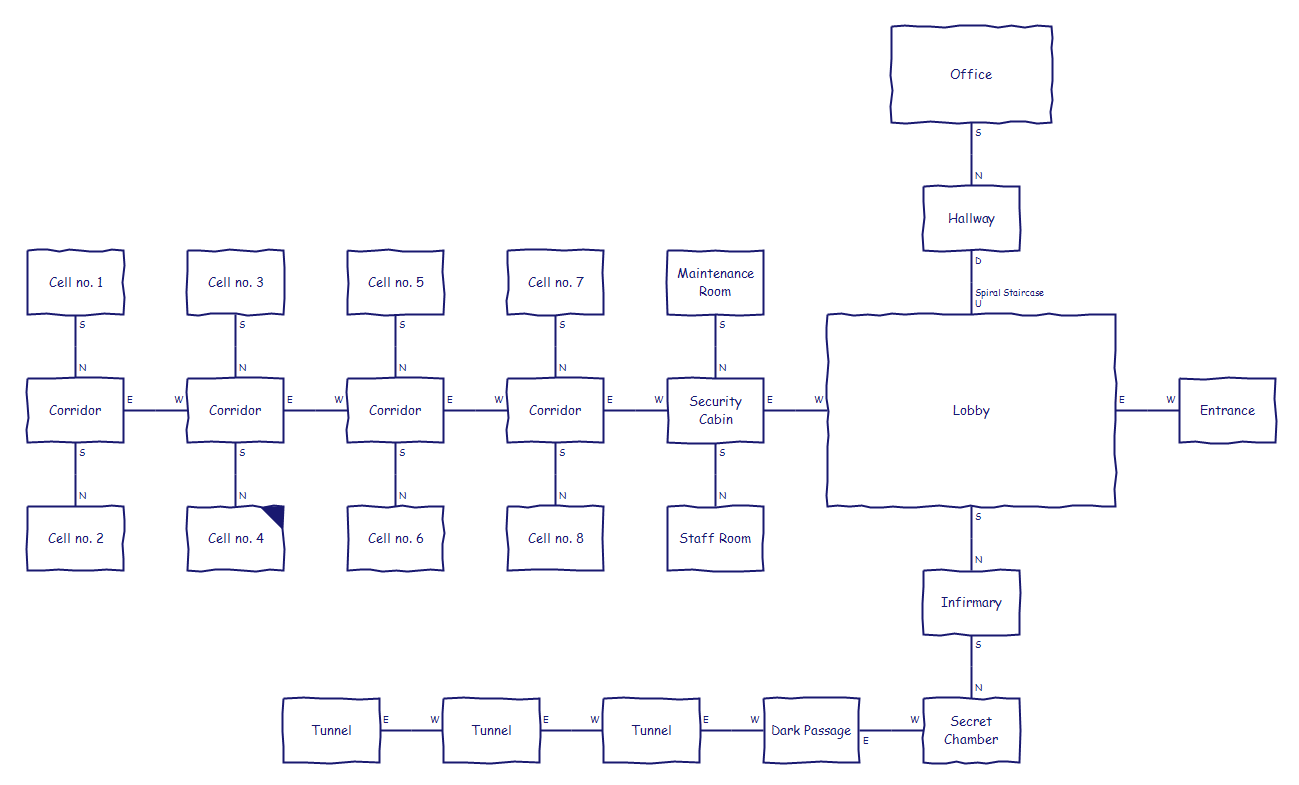
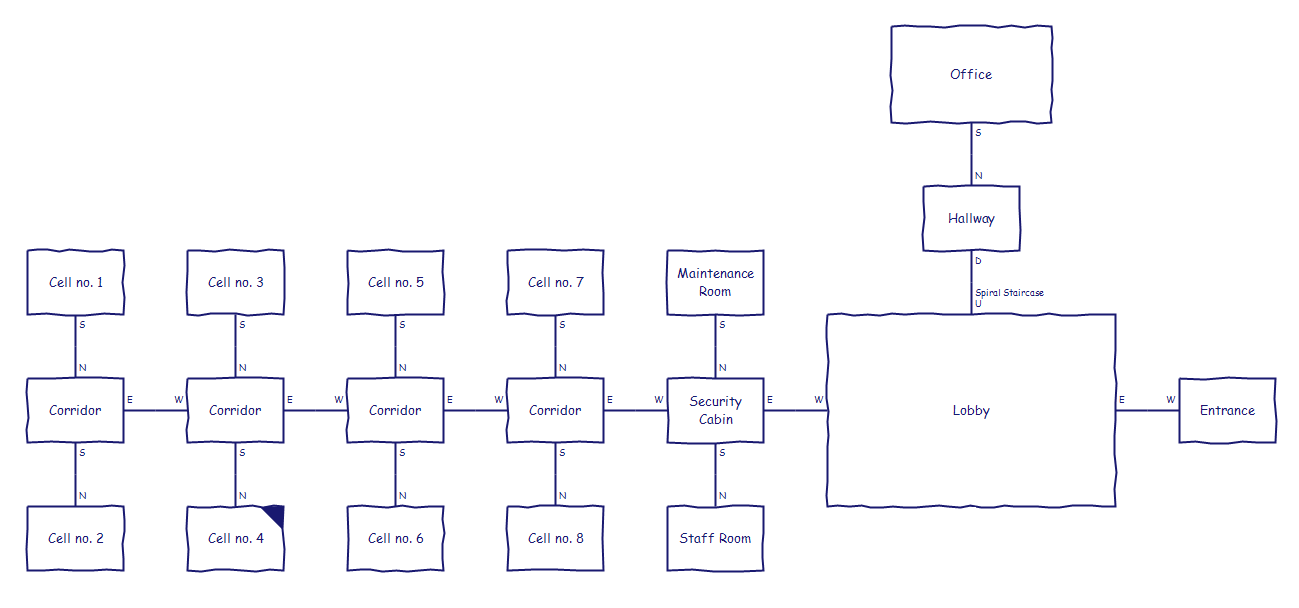
Changed map and coded ending

diff --git a/World.cpp b/World.cpp
@@ -17,14 +17,14 @@ using namespace std;
 World::World() 
 	: startTime(time(NULL)) {
 
-	Room* cellNo1 = new Room("Cell no. 1", "");
+	Room* cellNo1 = new Room("Cell no. 1", "The smell in this room is so strong that it kinda feels like a vapor sauna.\nQuickly you notice where it comes from.");
 	Room* cellNo2 = new Room("Cell no. 2", "There is another security bed in the center of this room.\nThe following phrase is written repeatedly all over the walls:\nThere is a small mailbox here. But as a matter of fact you can't see any mailbox in here.");
-	Room* cellNo3 = new Room("Cell no. 3", "TBD");
+	Room* cellNo3 = new Room("Cell no. 3", "There is an old mattress on the floor.\nIt looks particularly uncomfortable.");
 	Room* cellNo4 = new Room("Cell no. 4", "The appearance of the room where you woke up gives you the goosebumps.\nIt looks like you might be confined in a jailhouse or mental institution.\nWhy or how that happened is a mystery to you.\nThere is a security bed in the center of the room.\nIt seems as if its safety straps have been forced.\nDid you force them?");
-	Room* cellNo5 = new Room("Cell no. 5", "TBD");
-	Room* cellNo6 = new Room("Cell no. 6", "There are some mortal remains stacked up in a corner.\nSome of the bones don't look human.");
-	Room* cellNo7 = new Room("Cell no. 7", "TBD");
-	Room* cellNo8 = new Room("Cell no. 8", "TBD");
+	Room* cellNo5 = new Room("Cell no. 5", "There is some surgery equipment all made a mess...your guess is that\nsome doctor was performing an operation and had to run away, leaving\nall of this behind.");
+	Room* cellNo6 = new Room("Cell no. 6", "There are some mortal remains stacked up in a corner.\nSome of the bones don't look human...good vibes all around.");
+	Room* cellNo7 = new Room("Cell no. 7", "In the bed of this room, there is a notebook full of handwritten notes.\nYou read the last one:\n\"All the shouting that comes from the cell to the other side is driving\nme even crazier than what got me here. The staff here couldn't care\nless about us...\"\n...the rest of this paper sheet has been ripped off, so this is it.");
+	Room* cellNo8 = new Room("Cell no. 8", "The bed in this room is dirty and full of blood.\nYou don't want to imagine what happened here...but you want out!");
 
 	entities.push_back(cellNo1);
 	entities.push_back(cellNo2);
@@ -35,47 +35,31 @@ World::World()
 	entities.push_back(cellNo7);
 	entities.push_back(cellNo8);
 
-	Room* corridor1 = new Room("Corridor", "This end of the corridor has a small window to the outside.\nIt's made of tempered safety glass so you shouldn't dream about that\nescape route.");
-	Room* corridor2 = new Room("Corridor", "TBD");
-	Room* corridor3 = new Room("Corridor", "TBD");
-	Room* corridor4 = new Room("Corridor", "TBD");
+	Room* corridor1 = new Room("Corridor", "The West end of the corridor has a small window to the outside.\nIt's made of tempered safety glass so you shouldn't dream about that\nescape route.");
+	Room* corridor2 = new Room("Corridor", "You find yourself in a long and narrow corridor that communicates\nmany rooms.");
+	Room* corridor3 = new Room("Corridor", "In this part of the corridor you can see a big room in the distance.");
+	Room* corridor4 = new Room("Corridor", "This is the Eastern endpoint of the corridor.\nIt communicates the cluster of rooms with the rest of the facility.");
 
 	entities.push_back(corridor1);
 	entities.push_back(corridor2);
 	entities.push_back(corridor3);
 	entities.push_back(corridor4);
 
-	Room* maintenanceRoom = new Room("Maintenance Room", "TBD");
-	Room* staffRoom = new Room("Staff Room", "TBD");
-	Room* securityCabin = new Room("Security Cabin", "TBD");
+	Room* maintenanceRoom = new Room("Maintenance Room", "The Maintenance Room is full of all kinds of objects, such as pallets,\nbrooms, mops, pickers...");
+	Room* staffRoom = new Room("Staff Room", "This room doesn't seem very interesting, it's full of office stuff.");
+	Room* securityCabin = new Room("Security Cabin", "You can see two rows of monitors on the security booth.\nIt would be great to see what's going on in the other rooms, but all\nyou can see on screen is a random pattern of static...it seems that the\ncamera system has been sabotaged.");
 
 	entities.push_back(maintenanceRoom);
 	entities.push_back(staffRoom);
 	entities.push_back(securityCabin);
 
-	Room* lobby = new Room("Lobby", "TBD");
-	Room* hallway = new Room("Hallway", "TBD");
-	Room* office = new Room("Office", "TBD");
-	Room* entrance = new Room("Entrance", "TBD");
-	Room* infirmary = new Room("Infirmary", "TBD");
+	Room* lobby = new Room("Lobby", "The open space before you is overwhelming, specially in contrast with\nthe rest of the facilities. A song that you're not able to recognize is\nplaying on an old turntable.\nThe room has a certain flair, but it is clear that it has been severely\nneglected. It seems that this room has been used for leisure activities.");
+	Room* hallway = new Room("Hallway", "This small passage joins the office area on the upper floor with all the\nmain facilities on the ground floor.");
+	Room* office = new Room("Office", "There is a large mahogany desk in front of you with very metodically\norganized paperwork on top.\nOn the table, a computer with a game on screen that you quickly\nrecognize: Zork.\nYou have a flashback that blows your head off, indeed you were playing\nZork just before you passed out!\nOK now...this is quite something to digest...when you look inpect it\nclosely you see that the text on screen describes your surroundings,\nyou find out the way to put an end to all this madness. You smile while\nyou sit down to type your next command:");
 
 	entities.push_back(lobby);
 	entities.push_back(hallway);
 	entities.push_back(office);
-	entities.push_back(entrance);
-	entities.push_back(infirmary);
-
-	Room* secretChamber = new Room("Secret Chamber", "TBD");
-	Room* darkPassage = new Room("Dark Passage", "TBD");
-	Room* tunnel1 = new Room("Tunnel", "TBD");
-	Room* tunnel2 = new Room("Tunnel", "TBD");
-	Room* tunnel3 = new Room("Tunnel", "TBD");
-
-	entities.push_back(secretChamber);
-	entities.push_back(darkPassage);
-	entities.push_back(tunnel1);
-	entities.push_back(tunnel2);
-	entities.push_back(tunnel3);
 
 	Exit* cellNo1_Corridor = new Exit(Direction::S, cellNo1, corridor1, true);
 	Exit* cellNo2_Corridor = new Exit(Direction::N, cellNo2, corridor1, true);
@@ -114,26 +98,10 @@ World::World()
 	Exit* security_lobby = new Exit(Direction::E, securityCabin, lobby, true);
 	Exit* lobby_hallway = new Exit(Direction::U, lobby, hallway, false, false, "There is a Spiral staircase that goes ");
 	Exit* hallway_office = new Exit(Direction::N, hallway, office, true);
-	Exit* lobby_entrance = new Exit(Direction::E, lobby, entrance, true);
-	Exit* lobby_infirmary = new Exit(Direction::S, lobby, infirmary, true);
 
 	entities.push_back(security_lobby);
 	entities.push_back(lobby_hallway);
 	entities.push_back(hallway_office);
-	entities.push_back(lobby_entrance);
-	entities.push_back(lobby_infirmary);
-
-	Exit* infirmary_secret = new Exit(Direction::S, infirmary, secretChamber, true);
-	Exit* secret_passage = new Exit(Direction::W, secretChamber, darkPassage, true);
-	Exit* passage_tunnel1 = new Exit(Direction::W, darkPassage, tunnel1, true);
-	Exit* tunnel1_tunnel2 = new Exit(Direction::W, tunnel1, tunnel2, false);
-	Exit* tunnel2_tunnel3 = new Exit(Direction::W, tunnel2, tunnel3, false);
-
-	entities.push_back(infirmary_secret);
-	entities.push_back(secret_passage);
-	entities.push_back(passage_tunnel1);
-	entities.push_back(tunnel1_tunnel2);
-	entities.push_back(tunnel2_tunnel3);
 
 	player = new Player("PLAYER", "You have a face that only a mother could love.", cellNo4);
 	NPC* ork = new NPC("ORK", "The ORK is staring at you with a scowl.", cellNo1, 5);
@@ -173,22 +141,18 @@ GameState World::parse(vector<string>& vect) {
 		{
 			if (vect.front().compare("Q") == 0 ||
 				vect.front().compare("QUIT") == 0) {
+				if (player->location->getName().compare("Office") == 0) {
+					cout << stFgYellow << "Congratulations! You did it! You finished the game! :)";
+					cout << "\nYou were playing this game for ";
+					displayTime();
+					cout << "Your score was " << score << ".\n";
+				}
 				cout << stFgYellow << "Game closed.\n\n" << stBold << stFgBlue;
 				return END;
-			}
-			else if (vect.front().compare("HELP") == 0) {
-				// void displayHelp();
 			}
 			else if (vect.front().compare("INFO") == 0 ||
 				vect.front().compare("ABOUT") == 0) {
 				// void displayInfo();
-			}
-			else if (vect.front().compare("SAVE") == 0) {
-				// void saveGame();
-			}
-			else if (vect.front().compare("RESTORE") == 0 ||
-				vect.front().compare("LOAD") == 0) {
-				// void loadGame();
 			}
 			else if (vect.front().compare("RESTART") == 0) {
 				cout << stFgYellow << "Game restarted.\n\n" << stBold << stFgBlue;

diff --git a/Room.cpp b/Room.cpp
@@ -28,17 +28,19 @@ void Room::look() const
 		}
 	}
 	// Display exits
-	for (Entity* const element : container) {
-		if (element->type == EXIT) {
-			Exit* roomExit = ((Exit*)element);
-			cout << roomExit->getDescription();
-			// If this room is the source room print the exit in the regular order
-			if (this == roomExit->source)
-				cout << roomExit->direction;
-			// Otherwise, print it the other way around
-			else
-				cout << getOppositeDirection(roomExit->direction);
-			cout << ".\n";
+	if (this->getName().compare("Office") != 0) {
+		for (Entity* const element : container) {
+			if (element->type == EXIT) {
+				Exit* roomExit = ((Exit*)element);
+				cout << roomExit->getDescription();
+				// If this room is the source room print the exit in the regular order
+				if (this == roomExit->source)
+					cout << roomExit->direction;
+				// Otherwise, print it the other way around
+				else
+					cout << getOppositeDirection(roomExit->direction);
+				cout << ".\n";
+			}
 		}
 	}
 	// Diplay items
